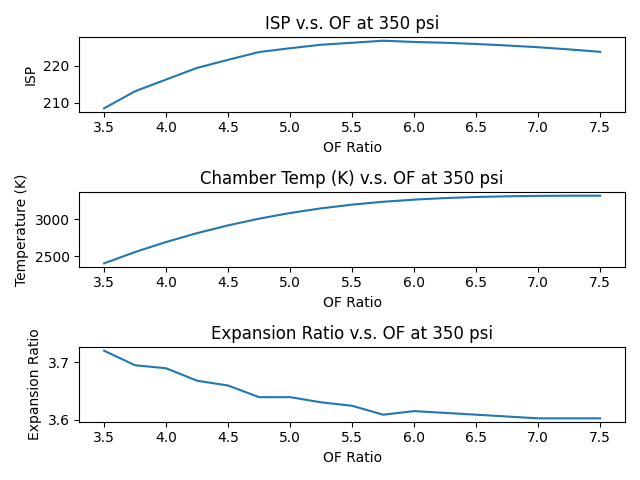
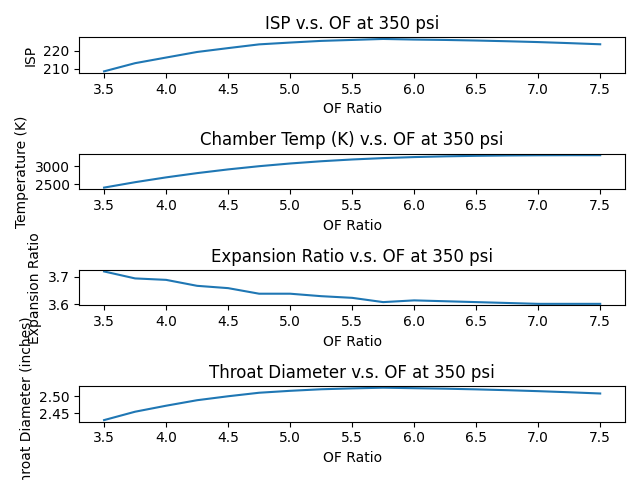
added throat diameter,calculation appears incorrect however

diff --git a/graphs.py b/graphs.py
@@ -2,6 +2,10 @@ import pandas as pd
 import numpy as np
 import matplotlib.pyplot as plt
 from calculations import getOptimumExpansionRatio
+from calculations import getMassFlow
+from calculations import getExhaustVelocity
+from calculations import getThroatDiameter
+
 
 F_thrust = 40960 #in N, harcoded constant
 burn_time = 5 #in s, hardcoded constant
@@ -15,29 +19,30 @@ def getData(paths, pressure):
     ISP = df["ISP"].to_numpy()
     TEMP = df["CHAMBER_TEMP"].to_numpy()
     CP_CV = df["CP_CV"].to_numpy()
+    MOL_WEIGHT = df["MOL_WEIGHT"].to_numpy()
 
 
-    fig, axs = plt.subplots(3) 
+    fig, axs = plt.subplots(4) 
     """
     Plot in the following order:
     Graphs for ISP v.s. OF, 
     Temperature v.s. OF, 
     Expansion Ratio v.s. OF
     """
-    #ISP v.s. OF Plot
+    """ISP v.s. OF Plot"""
     axs[0].plot(OF,ISP)
     axs[0].set_xlabel("OF Ratio")
     axs[0].set_ylabel("ISP")
     axs[0].set_title(f"ISP v.s. OF at {pressure} psi")
 
 
-    #Temp v.s. OF Plot
+    """Temp v.s. OF Plot"""
     axs[1].plot(OF,TEMP)
     axs[1].set_xlabel("OF Ratio")
     axs[1].set_ylabel("Temperature (K)")
     axs[1].set_title(f"Chamber Temp (K) v.s. OF at {pressure} psi")
 
-    #expansion ratio calculation (Ae / A*) and epsilon v.s. OF
+    """expansion ratio calculation (Ae / A*) and epsilon v.s. OF"""
     exp_ratios = []
     for i in range(len(df)):
         exp_ratios.append(getOptimumExpansionRatio(TEMP[i], CP_CV[i], pressure))
@@ -48,6 +53,18 @@ def getData(paths, pressure):
     axs[2].set_ylabel("Expansion Ratio")
     axs[2].set_title(f"Expansion Ratio v.s. OF at {pressure} psi")
 
+    """throat diameter v.s. OF plot"""
+    throat_diameter = []
+    for i in range(len(df)):
+        c = getExhaustVelocity(F_thrust, burn_time)
+        mdot = getMassFlow(F_thrust, c)
+        throat_diameter.append(getThroatDiameter(mdot, pressure, MOL_WEIGHT[i], TEMP[i], CP_CV[i]))
+
+    throat_diameter = np.array(throat_diameter)
+    axs[3].plot(OF, throat_diameter)
+    axs[3].set_xlabel("OF Ratio")
+    axs[3].set_ylabel("Throat Diameter (inches)")
+    axs[3].set_title(f"Throat Diameter v.s. OF at {pressure} psi")
 
     fig.tight_layout()
 

diff --git a/calculations.py b/calculations.py
@@ -1,5 +1,6 @@
 from math import sqrt
 from math import pow
+from math import pi
 
 def getOptimumExpansionRatio(T, k, P0):
     """
@@ -13,5 +14,32 @@ def getOptimumExpansionRatio(T, k, P0):
     
     epsilon = 1 / (first_term * second_term * third_term)
     return epsilon
+
+def getExhaustVelocity(thrust, burntime):
+    return thrust / burntime
+
+def getMassFlow(thrust, c):
+    return thrust / c
+
+def getThroatDiameter(mdot, P0, molecular_mass, T0, k): 
+    """Returns the throat diameter. P0 is the chamber pressure, T0 is the chamber temperature. 
+    Assumes mdot is in kg/s, P0 is in psi, molecular mass is in g/mol, T0 is in K, k is dimensionless.
+    """
+
+    P0 *= 6894.76 #convert psi to pascal
+    molecular_mass /= 1000 #convert g/mol to kg/mol
+    R = 8.314 / molecular_mass #J/(K*kg), specific gas constant
+
+    term1 = sqrt(k / (R * T0))
+    term2 = pow(2 / (k+1), (k+1)/(2*(k-1)))
+    area = mdot / (P0 * term1 * term2)
+    #pi/4 * d^2 = area
+    diameter = sqrt(area * 4 / pi) #in meters
+
+    diameter *= 39.3701 #convert meters to inches
+
+    return diameter
+
+
 
 
